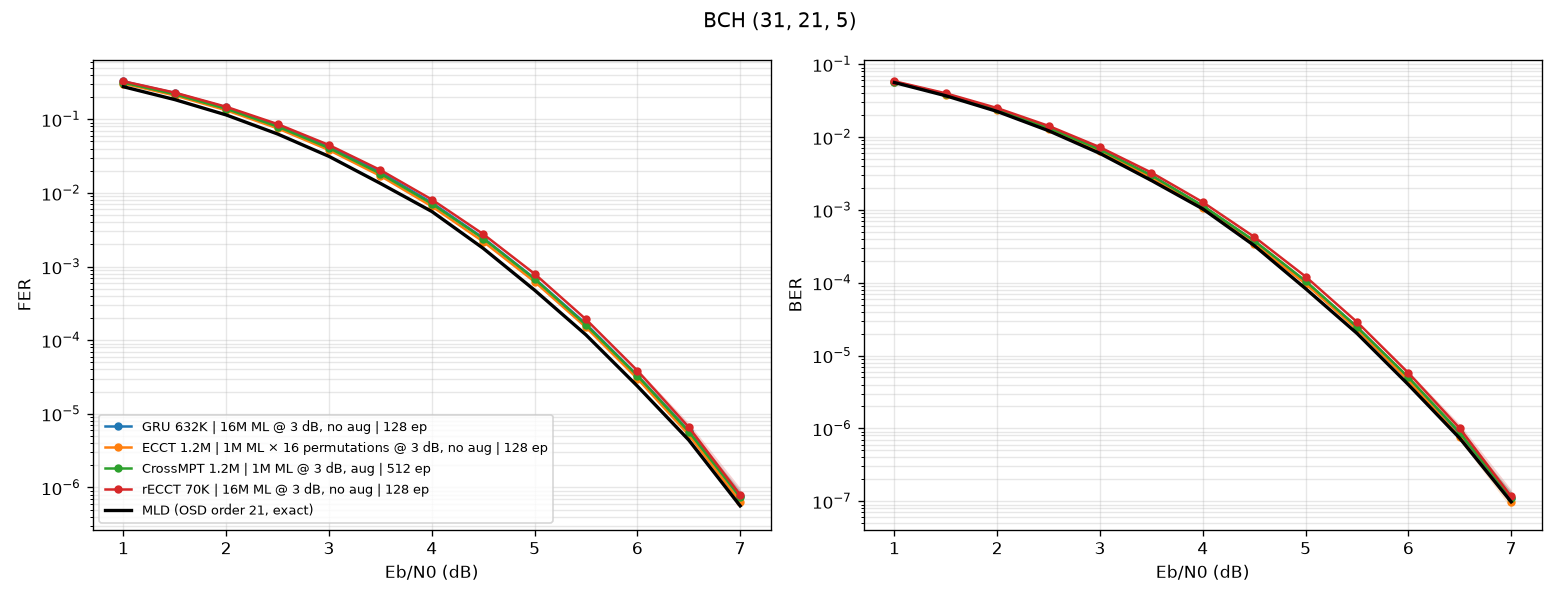
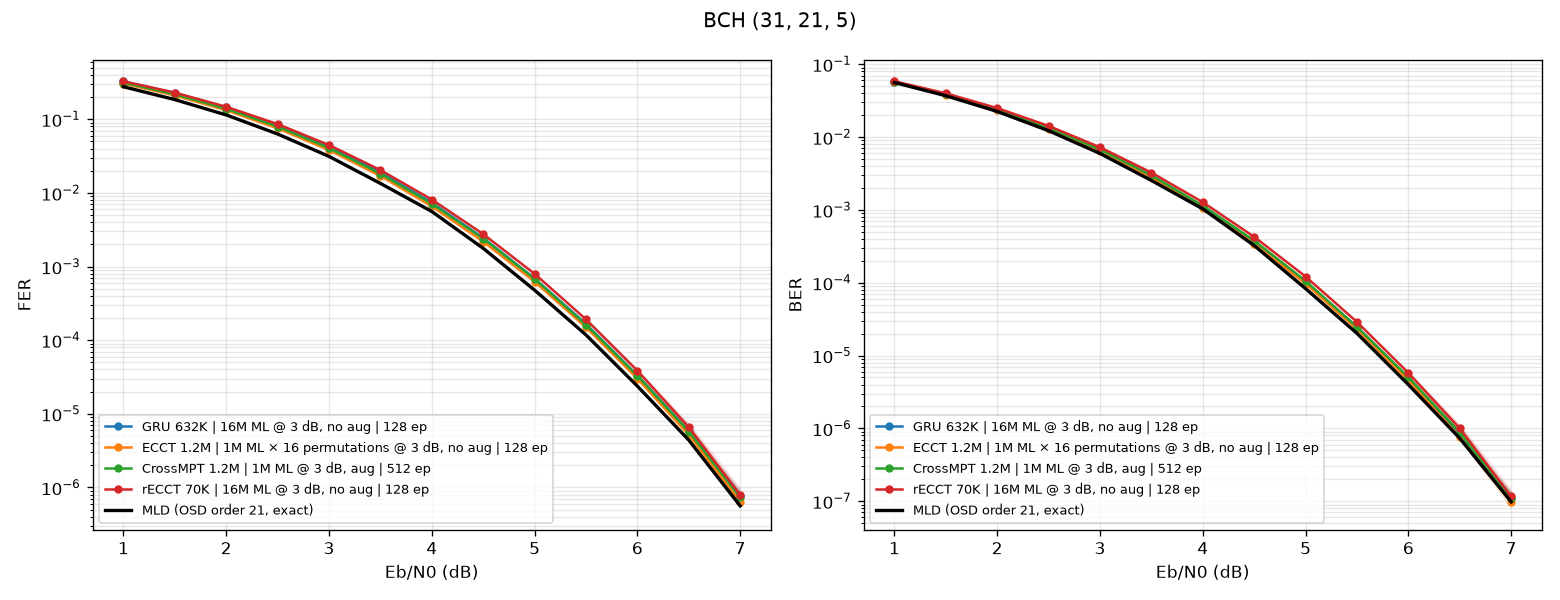
plot_experiments: legend on the BER panel too
Claude-Session: https://claude.ai/code/session_01RP3ZfdFHdqYPnEwCiWF3m4

Changed region(s): [[0.5538, 0.69, 0.8615, 0.87]]

diff --git a/scripts/plot_experiments.py b/scripts/plot_experiments.py
@@ -223,7 +223,7 @@ def plot(code, runs):
         ax.set_xlabel("Eb/N0 (dB)")
         ax.set_ylabel(name)
         ax.grid(True, which="both", alpha=0.3)
-    axes[0].legend(loc="lower left", fontsize=8)
+        ax.legend(loc="lower left", fontsize=8)
     fig.suptitle(code)
     fig.tight_layout()
     OUT.mkdir(exist_ok=True)
